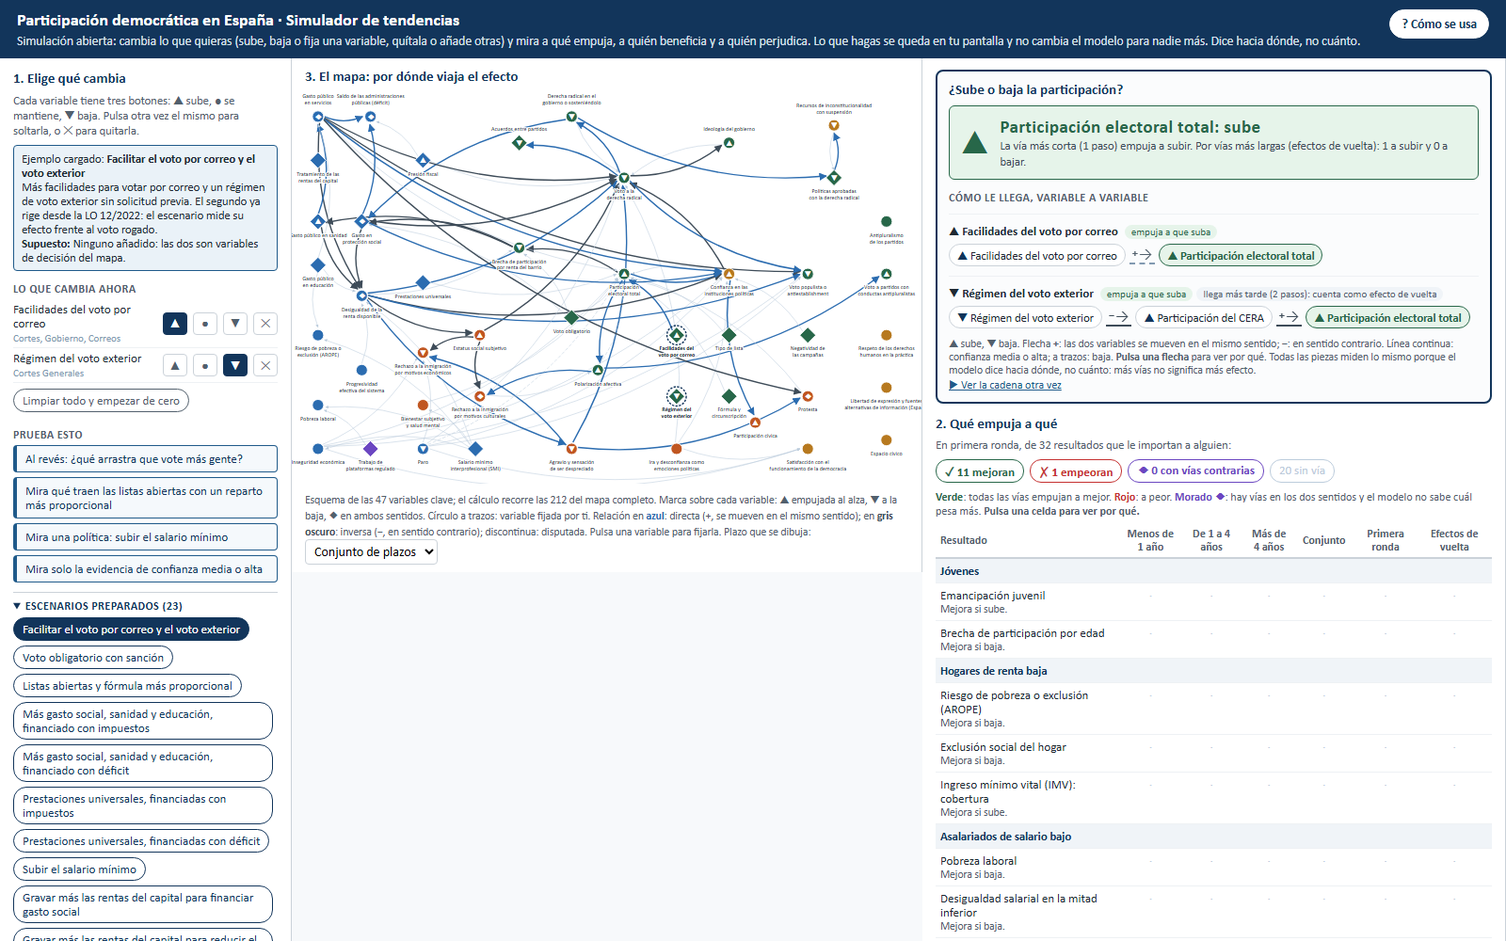
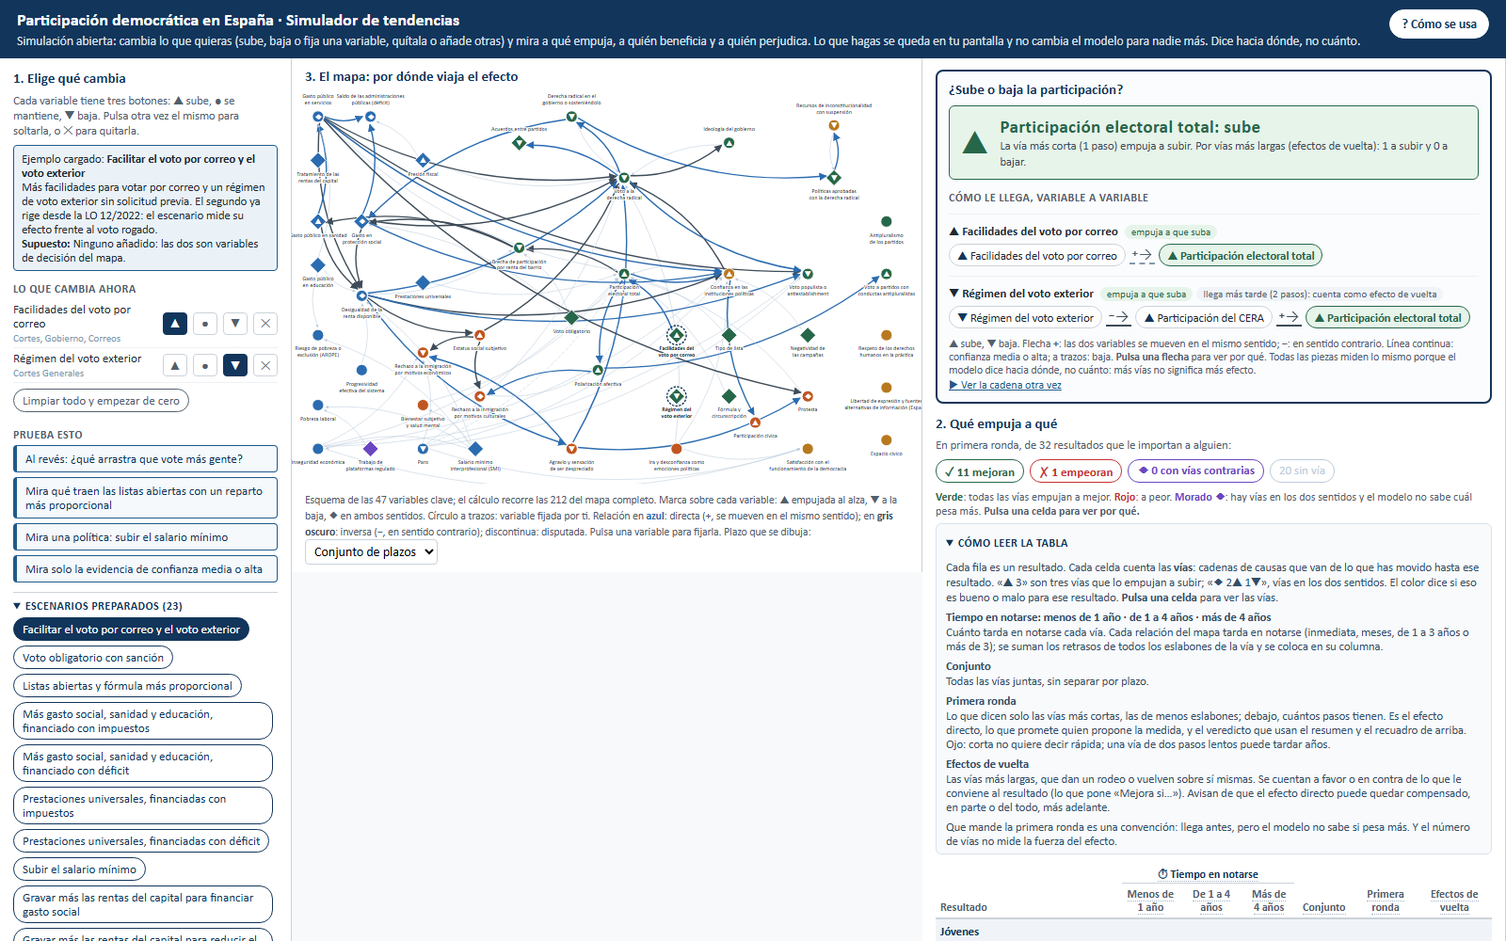
Simulador: explicación de la tabla y cabecera «Tiempo en notarse», versión 0.2.1
Caja plegable «Cómo leer la tabla» encima de la tabla de resultados, resumen
al pasar el ratón por cada cabecera y una cabecera común «Tiempo en notarse»
sobre las tres columnas de plazo. Guía y capturas actualizadas. El cálculo no
cambia.

Changed region(s): [[0.625, 0.558, 1.0, 1.0]]

diff --git a/12_Cases/Participacion democratica/Simulador_de_tendencias.html b/12_Cases/Participacion democratica/Simulador_de_tendencias.html
@@ -52,6 +52,13 @@
   #resumen { display:flex; flex-wrap:wrap; gap:6px; margin:0 0 8px; }
   #resumen span { padding:3px 9px; border-radius:12px; border:1px solid currentColor; font-size:13px; background:#fff; }
   .leyenda { font-size:12px; color:#52606D; margin:0 0 6px; }
+  details.leeT { border:1px solid #D9E2EC; background:#F8FAFC; border-radius:6px; padding:6px 10px; margin:4px 0 8px; font-size:12.5px; color:#334E68; }
+  details.leeT summary { cursor:pointer; font-weight:700; color:#12355B; }
+  details.leeT dl { margin:6px 0 2px; } details.leeT dt { font-weight:700; margin-top:6px; } details.leeT dd { margin:1px 0 0 0; }
+  details.leeT p { margin:6px 0 0; }
+  th[rowspan] { vertical-align:bottom; }
+  th.plazoG { text-align:center; color:#12355B; border-bottom:1px solid #CBD2D9; padding-bottom:2px; }
+  th abbr { text-decoration:none; cursor:help; border-bottom:1px dotted #9FB3C8; }
   select, input[type=text] { font:inherit; padding:3px 5px; border:1px solid #CBD2D9; border-radius:4px; max-width:100%; }
   svg text { font-family: Calibri, "Segoe UI", Arial, sans-serif; }
   /* Panel de la variable foco: cómo le llega el efecto, cadena a cadena (solo si el caso declara foco) */
@@ -155,7 +162,7 @@ const DATOS = {"titulo":"Participación democrática en España","umbral":0.02,"
   const fijo = new Map();          // id -> 1 (sube) | 0 (se mantiene) | -1 (baja)
   let minConf = 1, horizonte = 3;  // 3 = acumulado
   let escActivo = null, tocado = false;
-  let abreEsc = !movil(), abreVar = !movil();
+  let abreEsc = !movil(), abreVar = !movil(), abreLee = !movil();
   // Relaciones que entran en el calculo: las hipotesis del analista solo si se pide de forma expresa (-1)
   const usa = a => a.h ? minConf === -1 : a.c >= Math.max(minConf, 0);
   let res = new Map();             // id -> [ {pos,neg,cam:[]} x 3 ]
@@ -328,7 +335,17 @@ const DATOS = {"titulo":"Participación democrática en España","umbral":0.02,"
     else { const t = recuento();
       h += `<p class="pista">En primera ronda, de ${t.total} resultados que le importan a alguien:</p><div id="resumen"><span class="mej">✓ ${t.mej} mejoran</span><span class="emp">✗ ${t.emp} empeoran</span><span class="mix">◆ ${t.mix} con vías contrarias</span><span class="nul">${t.nul} sin vía</span></div>` +
         `<p class="leyenda"><span class="mej">Verde</span>: todas las vías empujan a mejor. <span class="emp">Rojo</span>: a peor. <span class="mix">Morado ◆</span>: hay vías en los dos sentidos y el modelo no sabe cuál pesa más. <b>Pulsa una celda para ver por qué.</b></p>`; }
-    h += '<div class="tabla"><table><tr><th>Resultado</th>' + HOR.map(x => `<th class="hz" style="text-align:center">${x}</th>`).join('') + '<th style="text-align:center">Conjunto</th><th style="text-align:center">Primera ronda</th><th style="text-align:center">Efectos de vuelta</th></tr>';
+    const tip = { plazo: 'Cuándo llega cada vía: se suman los retrasos de sus eslabones', conj: 'Todas las vías juntas, sin separar por plazo', pr: 'Lo que dicen las vías más cortas (menos eslabones)', ev: 'Las vías más largas: rodeos y realimentaciones, a favor o en contra' };
+    const th = (t, x, hz, fil) => `<th${hz ? ' class="hz"' : ''}${fil ? ' rowspan="2"' : ''} style="text-align:center"><abbr title="${tip[t]}">${x}</abbr></th>`;
+    h += `<details class="leeT"${abreLee ? ' open' : ''}><summary>Cómo leer la tabla</summary>` +
+      '<p>Cada fila es un resultado. Cada celda cuenta las <b>vías</b>: cadenas de causas que van de lo que has movido hasta ese resultado. «▲ 3» son tres vías que lo empujan a subir; «◆ 2▲ 1▼», vías en los dos sentidos. El color dice si eso es bueno o malo para ese resultado. <b>Pulsa una celda</b> para ver las vías.</p><dl>' +
+      (movil() ? '<dt>Plazos</dt><dd>En una pantalla ancha hay además tres columnas de plazo: menos de 1 año, de 1 a 4 y más de 4.</dd>'
+        : '<dt>Tiempo en notarse: menos de 1 año · de 1 a 4 años · más de 4 años</dt><dd>Cuánto tarda en notarse cada vía. Cada relación del mapa tarda en notarse (inmediata, meses, de 1 a 3 años o más de 3); se suman los retrasos de todos los eslabones de la vía y se coloca en su columna.</dd>') +
+      '<dt>Conjunto</dt><dd>Todas las vías juntas, sin separar por plazo.</dd>' +
+      '<dt>Primera ronda</dt><dd>Lo que dicen solo las vías más cortas, las de menos eslabones; debajo, cuántos pasos tienen. Es el efecto directo, lo que promete quien propone la medida, y el veredicto que usan el resumen y el recuadro de arriba. Ojo: corta no quiere decir rápida; una vía de dos pasos lentos puede tardar años.</dd>' +
+      '<dt>Efectos de vuelta</dt><dd>Las vías más largas, que dan un rodeo o vuelven sobre sí mismas. Se cuentan a favor o en contra de lo que le conviene al resultado (lo que pone «Mejora si…»). Avisan de que el efecto directo puede quedar compensado, en parte o del todo, más adelante.</dd></dl>' +
+      '<p>Que mande la primera ronda es una convención: llega antes, pero el modelo no sabe si pesa más. Y el número de vías no mide la fuerza del efecto.</p></details>';
+    h += '<div class="tabla"><table><tr><th rowspan="2">Resultado</th><th class="hz plazoG" colspan="3"><abbr title="' + tip.plazo + '">⏱ Tiempo en notarse</abbr></th>' + th('conj', 'Conjunto', 0, 1) + th('pr', 'Primera ronda', 0, 1) + th('ev', 'Efectos de vuelta', 0, 1) + '</tr><tr>' + HOR.map(x => th('plazo', x, 1)).join('') + '</tr>';
     for (const g of DATOS.resultados) {
       h += `<tr class="dim"><td colspan="7">${esc(g.dimension)}</td></tr>`;
       for (const [id, mejor] of g.variables) {
@@ -342,9 +359,10 @@ const DATOS = {"titulo":"Participación democrática en España","umbral":0.02,"
         h += '</tr>';
       }
     }
-    h += '</table></div><p class="obs">El número es la cantidad de vías. <b>Conjunto</b>: todas las vías, sumando los plazos' + (movil() ? ' (en una pantalla ancha se ven por separado)' : '') + '.</p><p class="obs"><b>Primera ronda</b>: el veredicto de las vías más cortas, las que llegan con menos pasos. <b>Efectos de vuelta</b>: las vías más largas, que rodean o realimentan, contadas según favorezcan o no lo que le conviene al actor. Es una convención: la primera ronda llega antes, pero el mapa no dice si pesa más.</p><div id="det"></div>';
+    h += '</table></div><div id="det"></div>';
     der.innerHTML = h;
     enlazarFoco();
+    const lee = der.querySelector('details.leeT'); if (lee) lee.addEventListener('toggle', () => { abreLee = lee.open; });
     der.querySelectorAll('td.c').forEach(c => c.addEventListener('click', () => { detalle = { id: c.dataset.id, h: +c.dataset.h }; pintarDetalle(); pintarSvg(); const d = document.getElementById('det'); if (d && d.firstChild) d.scrollIntoView({ behavior: 'smooth', block: 'start' }); }));
     pintarDetalle();
   }

diff --git a/index.html b/index.html
@@ -52,6 +52,13 @@
   #resumen { display:flex; flex-wrap:wrap; gap:6px; margin:0 0 8px; }
   #resumen span { padding:3px 9px; border-radius:12px; border:1px solid currentColor; font-size:13px; background:#fff; }
   .leyenda { font-size:12px; color:#52606D; margin:0 0 6px; }
+  details.leeT { border:1px solid #D9E2EC; background:#F8FAFC; border-radius:6px; padding:6px 10px; margin:4px 0 8px; font-size:12.5px; color:#334E68; }
+  details.leeT summary { cursor:pointer; font-weight:700; color:#12355B; }
+  details.leeT dl { margin:6px 0 2px; } details.leeT dt { font-weight:700; margin-top:6px; } details.leeT dd { margin:1px 0 0 0; }
+  details.leeT p { margin:6px 0 0; }
+  th[rowspan] { vertical-align:bottom; }
+  th.plazoG { text-align:center; color:#12355B; border-bottom:1px solid #CBD2D9; padding-bottom:2px; }
+  th abbr { text-decoration:none; cursor:help; border-bottom:1px dotted #9FB3C8; }
   select, input[type=text] { font:inherit; padding:3px 5px; border:1px solid #CBD2D9; border-radius:4px; max-width:100%; }
   svg text { font-family: Calibri, "Segoe UI", Arial, sans-serif; }
   /* Panel de la variable foco: cómo le llega el efecto, cadena a cadena (solo si el caso declara foco) */
@@ -155,7 +162,7 @@ const DATOS = {"titulo":"Participación democrática en España","umbral":0.02,"
   const fijo = new Map();          // id -> 1 (sube) | 0 (se mantiene) | -1 (baja)
   let minConf = 1, horizonte = 3;  // 3 = acumulado
   let escActivo = null, tocado = false;
-  let abreEsc = !movil(), abreVar = !movil();
+  let abreEsc = !movil(), abreVar = !movil(), abreLee = !movil();
   // Relaciones que entran en el calculo: las hipotesis del analista solo si se pide de forma expresa (-1)
   const usa = a => a.h ? minConf === -1 : a.c >= Math.max(minConf, 0);
   let res = new Map();             // id -> [ {pos,neg,cam:[]} x 3 ]
@@ -328,7 +335,17 @@ const DATOS = {"titulo":"Participación democrática en España","umbral":0.02,"
     else { const t = recuento();
       h += `<p class="pista">En primera ronda, de ${t.total} resultados que le importan a alguien:</p><div id="resumen"><span class="mej">✓ ${t.mej} mejoran</span><span class="emp">✗ ${t.emp} empeoran</span><span class="mix">◆ ${t.mix} con vías contrarias</span><span class="nul">${t.nul} sin vía</span></div>` +
         `<p class="leyenda"><span class="mej">Verde</span>: todas las vías empujan a mejor. <span class="emp">Rojo</span>: a peor. <span class="mix">Morado ◆</span>: hay vías en los dos sentidos y el modelo no sabe cuál pesa más. <b>Pulsa una celda para ver por qué.</b></p>`; }
-    h += '<div class="tabla"><table><tr><th>Resultado</th>' + HOR.map(x => `<th class="hz" style="text-align:center">${x}</th>`).join('') + '<th style="text-align:center">Conjunto</th><th style="text-align:center">Primera ronda</th><th style="text-align:center">Efectos de vuelta</th></tr>';
+    const tip = { plazo: 'Cuándo llega cada vía: se suman los retrasos de sus eslabones', conj: 'Todas las vías juntas, sin separar por plazo', pr: 'Lo que dicen las vías más cortas (menos eslabones)', ev: 'Las vías más largas: rodeos y realimentaciones, a favor o en contra' };
+    const th = (t, x, hz, fil) => `<th${hz ? ' class="hz"' : ''}${fil ? ' rowspan="2"' : ''} style="text-align:center"><abbr title="${tip[t]}">${x}</abbr></th>`;
+    h += `<details class="leeT"${abreLee ? ' open' : ''}><summary>Cómo leer la tabla</summary>` +
+      '<p>Cada fila es un resultado. Cada celda cuenta las <b>vías</b>: cadenas de causas que van de lo que has movido hasta ese resultado. «▲ 3» son tres vías que lo empujan a subir; «◆ 2▲ 1▼», vías en los dos sentidos. El color dice si eso es bueno o malo para ese resultado. <b>Pulsa una celda</b> para ver las vías.</p><dl>' +
+      (movil() ? '<dt>Plazos</dt><dd>En una pantalla ancha hay además tres columnas de plazo: menos de 1 año, de 1 a 4 y más de 4.</dd>'
+        : '<dt>Tiempo en notarse: menos de 1 año · de 1 a 4 años · más de 4 años</dt><dd>Cuánto tarda en notarse cada vía. Cada relación del mapa tarda en notarse (inmediata, meses, de 1 a 3 años o más de 3); se suman los retrasos de todos los eslabones de la vía y se coloca en su columna.</dd>') +
+      '<dt>Conjunto</dt><dd>Todas las vías juntas, sin separar por plazo.</dd>' +
+      '<dt>Primera ronda</dt><dd>Lo que dicen solo las vías más cortas, las de menos eslabones; debajo, cuántos pasos tienen. Es el efecto directo, lo que promete quien propone la medida, y el veredicto que usan el resumen y el recuadro de arriba. Ojo: corta no quiere decir rápida; una vía de dos pasos lentos puede tardar años.</dd>' +
+      '<dt>Efectos de vuelta</dt><dd>Las vías más largas, que dan un rodeo o vuelven sobre sí mismas. Se cuentan a favor o en contra de lo que le conviene al resultado (lo que pone «Mejora si…»). Avisan de que el efecto directo puede quedar compensado, en parte o del todo, más adelante.</dd></dl>' +
+      '<p>Que mande la primera ronda es una convención: llega antes, pero el modelo no sabe si pesa más. Y el número de vías no mide la fuerza del efecto.</p></details>';
+    h += '<div class="tabla"><table><tr><th rowspan="2">Resultado</th><th class="hz plazoG" colspan="3"><abbr title="' + tip.plazo + '">⏱ Tiempo en notarse</abbr></th>' + th('conj', 'Conjunto', 0, 1) + th('pr', 'Primera ronda', 0, 1) + th('ev', 'Efectos de vuelta', 0, 1) + '</tr><tr>' + HOR.map(x => th('plazo', x, 1)).join('') + '</tr>';
     for (const g of DATOS.resultados) {
       h += `<tr class="dim"><td colspan="7">${esc(g.dimension)}</td></tr>`;
       for (const [id, mejor] of g.variables) {
@@ -342,9 +359,10 @@ const DATOS = {"titulo":"Participación democrática en España","umbral":0.02,"
         h += '</tr>';
       }
     }
-    h += '</table></div><p class="obs">El número es la cantidad de vías. <b>Conjunto</b>: todas las vías, sumando los plazos' + (movil() ? ' (en una pantalla ancha se ven por separado)' : '') + '.</p><p class="obs"><b>Primera ronda</b>: el veredicto de las vías más cortas, las que llegan con menos pasos. <b>Efectos de vuelta</b>: las vías más largas, que rodean o realimentan, contadas según favorezcan o no lo que le conviene al actor. Es una convención: la primera ronda llega antes, pero el mapa no dice si pesa más.</p><div id="det"></div>';
+    h += '</table></div><div id="det"></div>';
     der.innerHTML = h;
     enlazarFoco();
+    const lee = der.querySelector('details.leeT'); if (lee) lee.addEventListener('toggle', () => { abreLee = lee.open; });
     der.querySelectorAll('td.c').forEach(c => c.addEventListener('click', () => { detalle = { id: c.dataset.id, h: +c.dataset.h }; pintarDetalle(); pintarSvg(); const d = document.getElementById('det'); if (d && d.firstChild) d.scrollIntoView({ behavior: 'smooth', block: 'start' }); }));
     pintarDetalle();
   }

diff --git a/11_Systemic_Analysis_Engine/plantilla_simulador.html b/11_Systemic_Analysis_Engine/plantilla_simulador.html
@@ -46,6 +46,13 @@
   #resumen { display:flex; flex-wrap:wrap; gap:6px; margin:0 0 8px; }
   #resumen span { padding:3px 9px; border-radius:12px; border:1px solid currentColor; font-size:13px; background:#fff; }
   .leyenda { font-size:12px; color:#52606D; margin:0 0 6px; }
+  details.leeT { border:1px solid #D9E2EC; background:#F8FAFC; border-radius:6px; padding:6px 10px; margin:4px 0 8px; font-size:12.5px; color:#334E68; }
+  details.leeT summary { cursor:pointer; font-weight:700; color:#12355B; }
+  details.leeT dl { margin:6px 0 2px; } details.leeT dt { font-weight:700; margin-top:6px; } details.leeT dd { margin:1px 0 0 0; }
+  details.leeT p { margin:6px 0 0; }
+  th[rowspan] { vertical-align:bottom; }
+  th.plazoG { text-align:center; color:#12355B; border-bottom:1px solid #CBD2D9; padding-bottom:2px; }
+  th abbr { text-decoration:none; cursor:help; border-bottom:1px dotted #9FB3C8; }
   select, input[type=text] { font:inherit; padding:3px 5px; border:1px solid #CBD2D9; border-radius:4px; max-width:100%; }
   svg text { font-family: Calibri, "Segoe UI", Arial, sans-serif; }
   /* Panel de la variable foco: cómo le llega el efecto, cadena a cadena (solo si el caso declara foco) */
@@ -149,7 +156,7 @@
   const fijo = new Map();          // id -> 1 (sube) | 0 (se mantiene) | -1 (baja)
   let minConf = 1, horizonte = 3;  // 3 = acumulado
   let escActivo = null, tocado = false;
-  let abreEsc = !movil(), abreVar = !movil();
+  let abreEsc = !movil(), abreVar = !movil(), abreLee = !movil();
   // Relaciones que entran en el calculo: las hipotesis del analista solo si se pide de forma expresa (-1)
   const usa = a => a.h ? minConf === -1 : a.c >= Math.max(minConf, 0);
   let res = new Map();             // id -> [ {pos,neg,cam:[]} x 3 ]
@@ -322,7 +329,17 @@
     else { const t = recuento();
       h += `<p class="pista">En primera ronda, de ${t.total} resultados que le importan a alguien:</p><div id="resumen"><span class="mej">✓ ${t.mej} mejoran</span><span class="emp">✗ ${t.emp} empeoran</span><span class="mix">◆ ${t.mix} con vías contrarias</span><span class="nul">${t.nul} sin vía</span></div>` +
         `<p class="leyenda"><span class="mej">Verde</span>: todas las vías empujan a mejor. <span class="emp">Rojo</span>: a peor. <span class="mix">Morado ◆</span>: hay vías en los dos sentidos y el modelo no sabe cuál pesa más. <b>Pulsa una celda para ver por qué.</b></p>`; }
-    h += '<div class="tabla"><table><tr><th>Resultado</th>' + HOR.map(x => `<th class="hz" style="text-align:center">${x}</th>`).join('') + '<th style="text-align:center">Conjunto</th><th style="text-align:center">Primera ronda</th><th style="text-align:center">Efectos de vuelta</th></tr>';
+    const tip = { plazo: 'Cuándo llega cada vía: se suman los retrasos de sus eslabones', conj: 'Todas las vías juntas, sin separar por plazo', pr: 'Lo que dicen las vías más cortas (menos eslabones)', ev: 'Las vías más largas: rodeos y realimentaciones, a favor o en contra' };
+    const th = (t, x, hz, fil) => `<th${hz ? ' class="hz"' : ''}${fil ? ' rowspan="2"' : ''} style="text-align:center"><abbr title="${tip[t]}">${x}</abbr></th>`;
+    h += `<details class="leeT"${abreLee ? ' open' : ''}><summary>Cómo leer la tabla</summary>` +
+      '<p>Cada fila es un resultado. Cada celda cuenta las <b>vías</b>: cadenas de causas que van de lo que has movido hasta ese resultado. «▲ 3» son tres vías que lo empujan a subir; «◆ 2▲ 1▼», vías en los dos sentidos. El color dice si eso es bueno o malo para ese resultado. <b>Pulsa una celda</b> para ver las vías.</p><dl>' +
+      (movil() ? '<dt>Plazos</dt><dd>En una pantalla ancha hay además tres columnas de plazo: menos de 1 año, de 1 a 4 y más de 4.</dd>'
+        : '<dt>Tiempo en notarse: menos de 1 año · de 1 a 4 años · más de 4 años</dt><dd>Cuánto tarda en notarse cada vía. Cada relación del mapa tarda en notarse (inmediata, meses, de 1 a 3 años o más de 3); se suman los retrasos de todos los eslabones de la vía y se coloca en su columna.</dd>') +
+      '<dt>Conjunto</dt><dd>Todas las vías juntas, sin separar por plazo.</dd>' +
+      '<dt>Primera ronda</dt><dd>Lo que dicen solo las vías más cortas, las de menos eslabones; debajo, cuántos pasos tienen. Es el efecto directo, lo que promete quien propone la medida, y el veredicto que usan el resumen y el recuadro de arriba. Ojo: corta no quiere decir rápida; una vía de dos pasos lentos puede tardar años.</dd>' +
+      '<dt>Efectos de vuelta</dt><dd>Las vías más largas, que dan un rodeo o vuelven sobre sí mismas. Se cuentan a favor o en contra de lo que le conviene al resultado (lo que pone «Mejora si…»). Avisan de que el efecto directo puede quedar compensado, en parte o del todo, más adelante.</dd></dl>' +
+      '<p>Que mande la primera ronda es una convención: llega antes, pero el modelo no sabe si pesa más. Y el número de vías no mide la fuerza del efecto.</p></details>';
+    h += '<div class="tabla"><table><tr><th rowspan="2">Resultado</th><th class="hz plazoG" colspan="3"><abbr title="' + tip.plazo + '">⏱ Tiempo en notarse</abbr></th>' + th('conj', 'Conjunto', 0, 1) + th('pr', 'Primera ronda', 0, 1) + th('ev', 'Efectos de vuelta', 0, 1) + '</tr><tr>' + HOR.map(x => th('plazo', x, 1)).join('') + '</tr>';
     for (const g of DATOS.resultados) {
       h += `<tr class="dim"><td colspan="7">${esc(g.dimension)}</td></tr>`;
       for (const [id, mejor] of g.variables) {
@@ -336,9 +353,10 @@
         h += '</tr>';
       }
     }
-    h += '</table></div><p class="obs">El número es la cantidad de vías. <b>Conjunto</b>: todas las vías, sumando los plazos' + (movil() ? ' (en una pantalla ancha se ven por separado)' : '') + '.</p><p class="obs"><b>Primera ronda</b>: el veredicto de las vías más cortas, las que llegan con menos pasos. <b>Efectos de vuelta</b>: las vías más largas, que rodean o realimentan, contadas según favorezcan o no lo que le conviene al actor. Es una convención: la primera ronda llega antes, pero el mapa no dice si pesa más.</p><div id="det"></div>';
+    h += '</table></div><div id="det"></div>';
     der.innerHTML = h;
     enlazarFoco();
+    const lee = der.querySelector('details.leeT'); if (lee) lee.addEventListener('toggle', () => { abreLee = lee.open; });
     der.querySelectorAll('td.c').forEach(c => c.addEventListener('click', () => { detalle = { id: c.dataset.id, h: +c.dataset.h }; pintarDetalle(); pintarSvg(); const d = document.getElementById('det'); if (d && d.firstChild) d.scrollIntoView({ behavior: 'smooth', block: 'start' }); }));
     pintarDetalle();
   }

diff --git a/GUIA_SIMULADOR.md b/GUIA_SIMULADOR.md
@@ -142,14 +142,18 @@ abstencionistas, personas sin empleo, personas solas o aisladas y el conjunto de
 resultado a la baja. Cuidado: la flecha dice si sube o baja, y el color dice si eso es bueno o malo. Que
 baje la brecha de participación es verde; que baje el empleo es rojo.
 
-**Las columnas:**
+**Las columnas** (en el simulador, «Cómo leer la tabla», justo encima, lo explica también; y si pasas
+el ratón por la cabecera de una columna, sale un resumen):
 
 | Columna | Qué responde |
 |---|---|
-| Menos de 1 año · De 1 a 4 años · Más de 4 años | ¿Cuándo llega el efecto? |
-| Conjunto | Todo junto, sin distinguir plazos |
-| **Primera ronda** | ¿Qué dice el camino más corto? Es el efecto más directo, y debajo pone cuántos pasos tiene |
-| **Efectos de vuelta** | ¿Y los caminos más largos? Cuántos van a favor y cuántos en contra |
+| **Tiempo en notarse:** menos de 1 año · de 1 a 4 años · más de 4 años | ¿Cuánto tarda en notarse el efecto? Cada relación del mapa tarda en notarse (inmediata, meses, de 1 a 3 años o más de 3). Se suman los retrasos de todos los eslabones de una vía, y la vía va a la columna que le toca |
+| Conjunto | Todas las vías juntas, sin distinguir plazos |
+| **Primera ronda** | ¿Qué dicen las vías más cortas, las de menos eslabones? Es el efecto más directo, y debajo pone cuántos pasos tiene. Es el mismo veredicto del resumen y del recuadro de la participación |
+| **Efectos de vuelta** | ¿Y las vías más largas, las que dan un rodeo o vuelven sobre sí mismas? Cuántas van a favor de lo que le conviene a ese resultado y cuántas en contra |
+
+Ojo: «más corta» quiere decir con menos pasos, no más rápida. Una vía de dos pasos lentos puede tardar
+años, y aparecerá en la columna de más de 4 años aunque sea de primera ronda.
 
 Si solo vas a mirar dos columnas, que sean las dos últimas. **Primera ronda** es lo que promete quien
 propone la medida. **Efectos de vuelta** es lo que el sistema devuelve después.
@@ -258,5 +262,5 @@ Cada relación del mapa procede de una fuente: un dato oficial o un estudio, con
 Están en `datos/relaciones.csv`. Si una relación no te convence, puedes quitarla o cambiarla en
 `datos/caso.js` y recalcular; el archivo `LEEME.md` explica cómo.
 
-Las capturas de esta guía son de la versión 0.2. Si el modelo cambia, los números de los ejemplos
+Las capturas de esta guía son de la versión 0.2.1. Si el modelo cambia, los números de los ejemplos
 pueden variar.

diff --git a/LEEME.md b/LEEME.md
@@ -5,7 +5,7 @@ votos y políticas consiguen que más personas vivan con dignidad. Con sus datos
 programa que lo calcula. Está hecho para que cualquiera pueda **revisarlo, discutirlo, cambiarle un dato
 y ver qué pasa**.
 
-Autor: Juan Carlos Siria · Versión del paquete: 0.2 · Fecha: 13 de noviembre de 2026
+Autor: Juan Carlos Siria · Versión del paquete: 0.2.1 · Fecha: 13 de noviembre de 2026
 
 ## Qué es
 
@@ -136,4 +136,4 @@ siempre el documento, la página y el enlace.
 ## Licencia y cita
 
 Ver `LICENCIA.md`. Si lo usas, cita: *Juan Carlos Siria, «SOIH · La participación democrática en España
-como sistema», versión 0.2, 13 de noviembre de 2026.*
+como sistema», versión 0.2.1, 13 de noviembre de 2026.*

diff --git a/README.md b/README.md
@@ -5,7 +5,7 @@ votos y políticas consiguen que más personas vivan con dignidad. Con sus datos
 programa que lo calcula. Está hecho para que cualquiera pueda **revisarlo, discutirlo, cambiarle un dato
 y ver qué pasa**.
 
-Autor: Juan Carlos Siria · Versión del paquete: 0.2 · Fecha: 13 de noviembre de 2026
+Autor: Juan Carlos Siria · Versión del paquete: 0.2.1 · Fecha: 13 de noviembre de 2026
 
 ## Qué es
 
@@ -136,4 +136,4 @@ siempre el documento, la página y el enlace.
 ## Licencia y cita
 
 Ver `LICENCIA.md`. Si lo usas, cita: *Juan Carlos Siria, «SOIH · La participación democrática en España
-como sistema», versión 0.2, 13 de noviembre de 2026.*
+como sistema», versión 0.2.1, 13 de noviembre de 2026.*
